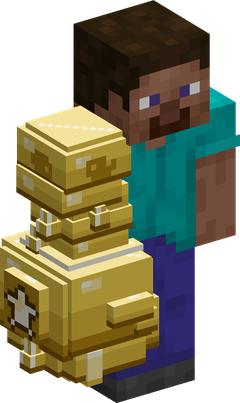
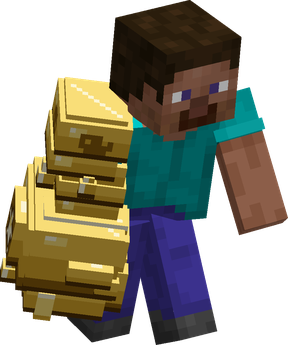
Missing 8.1.0: Gon Bomba, Golden Armour, Gon Lancia, Cream Grab and Paste from the game; changelog headings as the 8.0.0 entry

diff --git a/docs/mods/missing-missing-no-mi/changelog.md b/docs/mods/missing-missing-no-mi/changelog.md
@@ -19,7 +19,7 @@ Missing 8.0.0 needed), so both sides need the same version.</p>
 <p>⚠ <strong>Servers: set <code>allow-flight=true</code></strong> in <code>server.properties</code>, as before. Several fruits fly or hover, and without it
 the server kicks their users.</p>
 <hr />
-<h3>Toshi Toshi no Mi</h3>
+<h2>Toshi Toshi no Mi</h2>
 <ul>
 <li><strong>Roshi</strong> (new) pushes the enemy in front to the end of its years, 30 on an aged enemy and 12 otherwise. An aged
   creature at 30 health or less dies of old age. Reach 4, cooldown 12 s.</li>
@@ -32,7 +32,7 @@ the server kicks their users.</p>
 <li><strong>NDE</strong> now leaves the target aged for 10 s after the bones show. Still no damage.</li>
 <li><strong>Futures are cheaper</strong>: the muscle future costs 10 conviction to start (was 15), the giant 40 (was 50).</li>
 </ul>
-<h3>Nomi Nomi no Mi</h3>
+<h2>Nomi Nomi no Mi</h2>
 <ul>
 <li><strong>Knowledge by discoveries.</strong> Each repeat of the same subject gives half the one before, down to nothing (a Zoan
   sampled: 40, 20, 10, 5...). New things to learn from: a Devil Fruit analysed on its user (10), a biome entered for the
@@ -59,19 +59,19 @@ the server kicks their users.</p>
 <li>With the Race Race no Mi, a race keeps its race and gets the trait on top. A race's own trait cannot be grafted on it.</li>
 <li>Operators can list, add, remove or clear traits with <code>/missing nomi lineage &lt;targets&gt;</code>.</li>
 </ul>
-<h3>Gutsu Gutsu no Mi</h3>
+<h2>Gutsu Gutsu no Mi</h2>
 <ul>
 <li><strong>Belly Oven</strong> (new) opens a furnace kept in the user's belly. No fuel and no cost: the heat never runs out. It cooks
   every furnace recipe at its own speed, and keeps cooking with the screen closed. What is inside is kept over log out,
   and drops at death like the inventory.</li>
 </ul>
-<h3>SMILEs</h3>
+<h2>SMILEs</h2>
 <ul>
 <li><strong>Pirate NPCs can eat SMILEs</strong>: captains, notorious pirates, grunts, brutes and snipers spawn in a failed SMILE form and
   use its techniques. Off by default: set AkumaLib's server option <code>npcSmileChance</code> to turn it on.</li>
 <li>The Kibi Kibi's dango tames every NPC SMILE user, captains included. Its description says so again.</li>
 </ul>
-<h3>Rework: Mane Mane, Toge Toge, Mira Mira</h3>
+<h2>Rework: Mane Mane, Toge Toge, Mira Mira</h2>
 <ul>
 <li><strong>Mane Mane.</strong> A friend of the copied player holds back his first blow; the second lands and ends the look. Under a
   creature's look the user lets out its cry now and then. Face Touch reaches a man at a giant's feet. New icons and
@@ -82,7 +82,7 @@ the server kicks their users.</p>
   player crouches to agree). From inside <strong>Mirro-World</strong>, her hand comes out of a mirror by a door and pulls in the first
   enemy within 4 blocks. New icons, more ornate mirrors and gestures for every ability.</li>
 </ul>
-<h3>Rework: Toki Toki, Goru Goru, Memo Memo</h3>
+<h2>Rework: Toki Toki, Goru Goru, Memo Memo</h2>
 <ul>
 <li><strong>Toki Toki</strong> is now an <strong>iron box</strong> fruit (was golden). <strong>Shelter</strong> sends a group, the ally touched and the allies
   within 3 blocks of them, 5 in all. <strong>Jump Ahead</strong> has a short cast. A ring of hours (twelve closing glints and a brass
@@ -95,7 +95,7 @@ the server kicks their users.</p>
   them last and whom they hit last. The user holds real shears while cutting. NPCs use Cut and Paste. New icons, film and
   gestures.</li>
 </ul>
-<h3>Rework: Triceratops, Pachycephalosaurus, Saber Tiger</h3>
+<h2>Rework: Triceratops, Pachycephalosaurus, Saber Tiger</h2>
 <ul>
 <li><strong>Triceratops: 9 slots instead of 10.</strong> <strong>Horn Charge</strong> now holds both charges, picked by the form: the beast's Horn
   Charge (26, breaks blocks up to stone) and the hybrid's Tamaceratops (20). Horn Lift 20 (was 14), Ground Stomp 18 (was
@@ -109,7 +109,7 @@ the server kicks their users.</p>
 <li><strong>All three</strong>: new models from the anime, new icons and fruit icons, new particles, and the hybrid's own arm in first
   person. Captains use more of the kit, and slots grey out when they cannot be used (feet off the ground and the like).</li>
 </ul>
-<h3>Rework: Gunyo Gunyo, Shima Shima, Shiku Shiku</h3>
+<h2>Rework: Gunyo Gunyo, Shima Shima, Shiku Shiku</h2>
 <ul>
 <li><strong>Gunyo Gunyo: 8 slots instead of 9.</strong> <strong>Giant Golem is the ALT mode of the Golems</strong>, sharing one 30 s cooldown. The
   golems take the base mod's Command orders.</li>
@@ -126,7 +126,7 @@ the server kicks their users.</p>
   blows x0.85 for its 2 minutes. <strong>Contagion</strong> and <strong>Epidemic</strong> spare players you may not fight and other players'
   animals. Epidemic is greyed until you have given a disease. New icons and effect icons.</li>
 </ul>
-<h3>Rework: Atsu Atsu, Kibi Kibi, Kuri Kuri</h3>
+<h2>Rework: Atsu Atsu, Kibi Kibi, Kuri Kuri</h2>
 <ul>
 <li><strong>Atsu Atsu.</strong> While Netsuryo Up is on, what hits the user's bare body gets burnt. <strong>Net Tire</strong> bounds once per roll and
   the bound hits. <strong>Atsu Atsu no Gatling</strong> throws slow heat balls. Net Surfing, Slippery Slippery and the 10,000 Degree
@@ -138,7 +138,7 @@ the server kicks their users.</p>
   hit harder. Lighter Cream Monster, and its tentacles go back in under Cream Shell. Cream on the first-person arm.</li>
 <li><strong>Waves.</strong> Cream Wave, Net Surfing, Doro Nami and Great Wave no longer go twice too fast for a big body.</li>
 </ul>
-<h3>Other changes</h3>
+<h2>Other changes</h2>
 <ul>
 <li><strong>Fixed a crash</strong> when right-clicking an infused beast in singleplayer.</li>
 <li><strong>NPCs.</strong> The alpaca captain now lands Woolly Kick. NPCs no longer hold back Atsu's Net Tire and Steam Iron, Kibi's
@@ -146,7 +146,7 @@ the server kicks their users.</p>
 <li><strong>Icons.</strong> The Bisu Bisu's ten icons and ten of the base mod's SMILE techniques redrawn. Rarara Ranbo and the Hito Hito
   and Tama Tama infused beasts get their own icons. The Shari Shari fruit has a steel stem.</li>
 </ul>
-<h3>For servers and modpacks</h3>
+<h2>For servers and modpacks</h2>
 <ul>
 <li>Removed the particles <code>inomissing:ring_particle</code> and <code>inomissing:glint_particle</code>: the same drawings are now AkumaLib's
   <code>akumalib:ring</code> and <code>akumalib:glint</code>. Worlds are not affected.</li>

diff --git a/docs/mods/missing-missing-no-mi/fruits/goru-goru-no-mi.md b/docs/mods/missing-missing-no-mi/fruits/goru-goru-no-mi.md
@@ -14,7 +14,7 @@
 
 In 3D: drag to turn, scroll or pinch to zoom.
 
-<div class="model-viewer" data-models="../../" data-ids="forms/gon-bomba objects/gon-lancia objects/gon-incantesimo"></div>
+<div class="model-viewer" data-models="../../" data-ids="forms/gon-bomba objects/gon-lancia objects/gon-incantesimo forms/golden-armour"></div>
 
 <!-- animations -->
 ??? example "Animations"
@@ -184,6 +184,8 @@ The user forms a long golden blade on their arm and slashes all the enemies in f
 ## Golden Armour { #golden-armour }
 
 ![](../abilities/golden-armour.png){ .ability-icon } *Active · Transformation*
+
+![Golden Armour](../forms/golden-armour.png){ .form-picture }
 
 The user covers their whole body with gold, becoming much tougher and harder to push, but heavier and slower.
 
